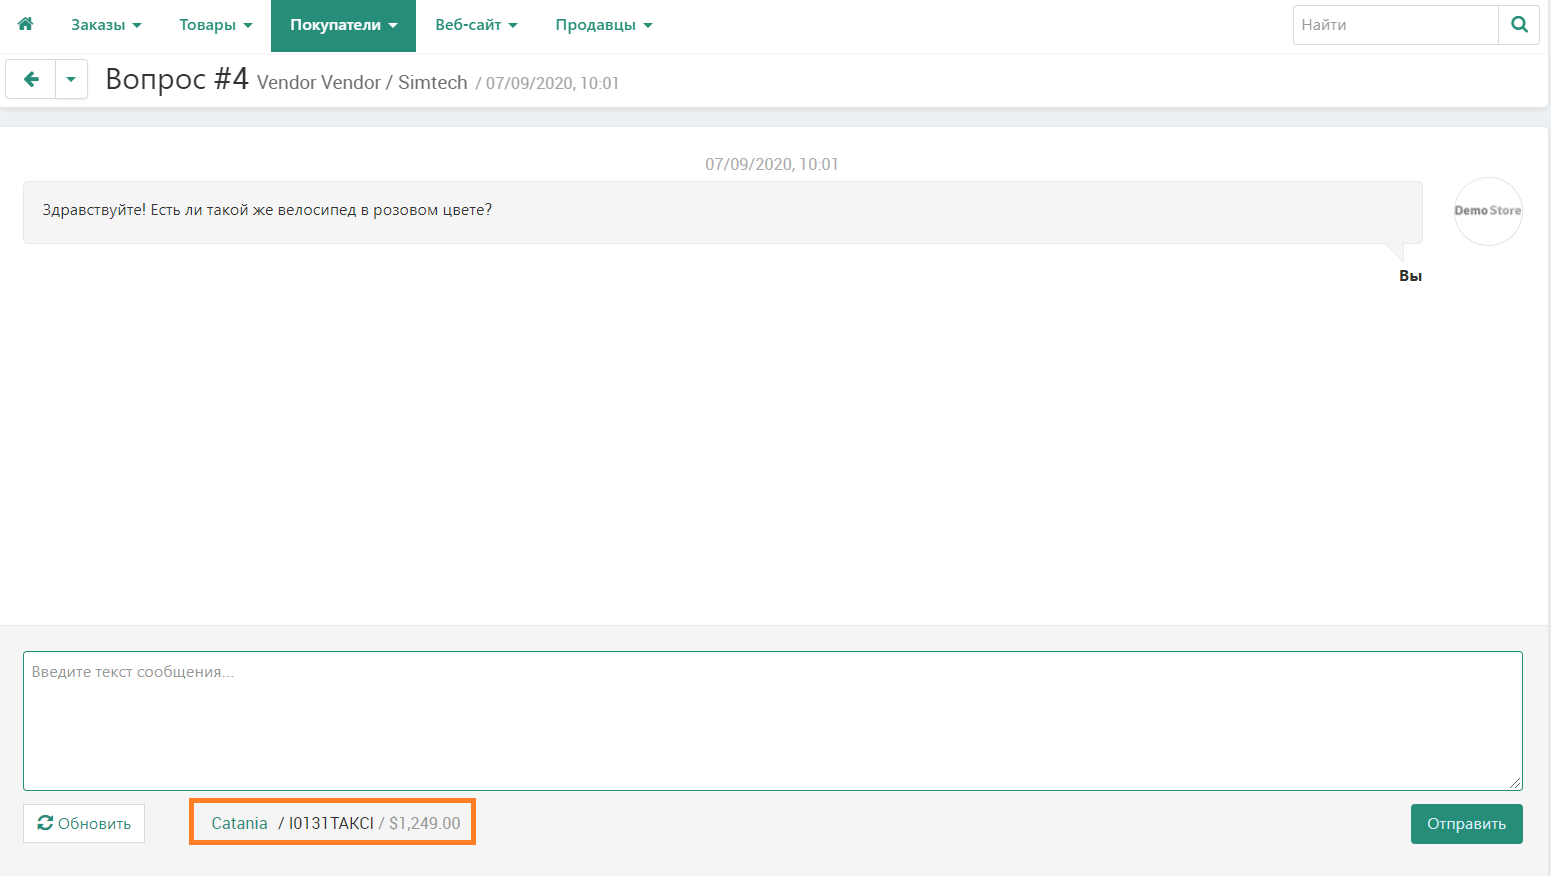
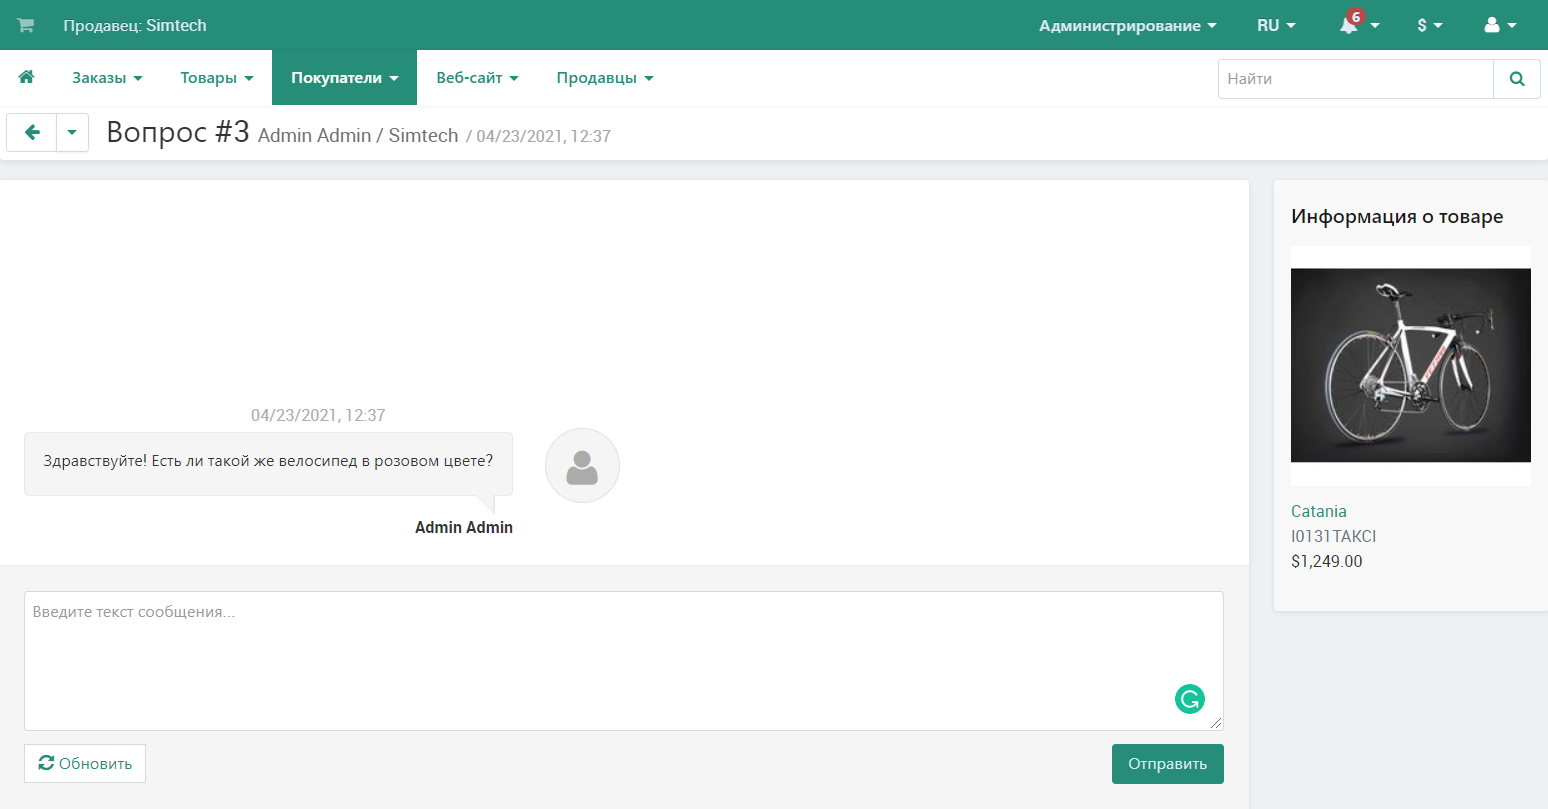
User Guide: Addons: Message Center articles updated

diff --git a/ru/user_guide/addons/customer_to_vendor_communication/index.rst b/ru/user_guide/addons/customer_to_vendor_communication/index.rst
@@ -4,7 +4,7 @@
 
 Модуль “Центр сообщений” поможет наладить общение между участниками продаж в CS-Cart. Это необходимое решение, если вы хотите дать покупателям возможность:
 
-* задать вопрос о товаре;
+* задать вопрос о товаре или по заказу;
 
 * общаться с вами или с вашими продавцами (если у вас маркетплейс). 
 
@@ -19,18 +19,25 @@
 Общение с покупателями
 ++++++++++++++++++++++
 
-Модуль “Центр сообщений” предоставляет продавцам и владельцам маркетплейсов возможность своевременно реагировать на запросы покупателей. на странице **Покупатели → Центр сообщений** продавцы или владелец маркетплейса могут:
+Модуль “Центр сообщений” предоставляет продавцам и владельцам маркетплейсов возможность своевременно реагировать на запросы покупателей. На странице **Покупатели → Центр сообщений** продавцы или владелец маркетплейса могут:
 
 * просматривать сообщения покупателей;
 
-* отвечать на сообщения, в том числе, на вопросы покупателей по конкретным товарам. Ссылка на товар, со страницы которого был отправлен вопрос, прикрепляется в нижней части диалога. Это позволяет продавцу сразу перейти на страницу с товаром, чтобы быстрее решить проблему клиента или ответить на его вопрос.
+* отвечать на сообщения, в том числе, на вопросы покупателей по конкретным товарам. Ссылка на товар, со страницы которого был отправлен вопрос, прикрепляется в правой части диалога. Это позволяет продавцу сразу перейти на страницу с товаром, чтобы быстрее решить проблему клиента или ответить на его вопрос.
 
   .. fancybox:: img/ask_a_question.png
-      :alt: Ссылка на товар, со страницы которого было отправлено сообщение, в переписке между покупателем и продавцом.
+      :alt: Переписка между покупателем и продавцом по товару.
+
+* отвечать на вопросы покупателей по заказам. Ссылка на заказ, со страницы которого был отправлен вопрос, находится в правой части страницы.
+
+  .. fancybox:: img/ask_a_question_2.png
+      :alt: Переписка между покупателем и продавцом по заказу.
 
 Модуль предоставляет возможность покупателям:
 
-* задать вопрос прямо с витрины со страницы любого товара через  кнопку **Задать вопрос**.
+* задать вопрос прямо с витрины со страницы любого товара через кнопку **Задать вопрос**.
+
+* начать общение со страницы заказа через **Мой профиль → Заказы**.
 
 * просматривать и отвечать на сообщения на странице своего профиля в разделе **Сообщения**.
 

diff --git a/ru/user_guide/addons/customer_to_vendor_communication/set_up_communication.rst b/ru/user_guide/addons/customer_to_vendor_communication/set_up_communication.rst
@@ -15,19 +15,21 @@
    * **Общие**:
 
      * **Общение покупателей с продавцами** — поставьте галочку, если хотите дать продавцам возможность напрямую общаться со своими покупателями.
-	 
-     * **Общение продавцов с администраторами**— поставьте галочку, если хотите дать продавцам возможность связываться с вами.
-	 
+
+     * **Общение продавцов с администраторами** — поставьте галочку, если хотите дать продавцам возможность связываться с вами.
+
    * **Для покупателей**:
 
      * **Отображать кнопку чата на странице товара** — поставьте галочку, если хотите, чтобы клиенты могли отправлять вам сообщения со страниц товаров.
-	 
+
      * **Отображать кнопку чата на странице микромагазина продавца** — если включить эту настройку, то кнопка “Задать вопрос” появится на странице микромагазина продавца.
-	 
+    
        .. important::
-	 
-	       Эта настройка влияет только на продавцов, у которых микромагазин включен в :doc:`тарифном плане </user_guide/users/vendors/manage_vendor_plans>`.
-		 
+
+           Эта настройка влияет только на продавцов, у которых микромагазин включен в :doc:`тарифном плане </user_guide/users/vendors/manage_vendor_plans>`.
+
+     * **Отображать кнопку чата на странице заказа** — поставьте галочку, если хотите, чтобы клиенты могли отправлять вам сообщения с детальных страниц заказов.
+
 Как ограничить общение продавцов с покупателями и администратором?
 ==================================================================
 
@@ -36,7 +38,7 @@
 .. important::
 
     Модуль :doc:`/user_guide/addons/vendor_privileges/index` доступен только для пользователей Multi-Vendor Plus и Multi-Vendor Ultimate.
-	
+
 Как сделать так, чтобы с покупателями общались только вы?
 +++++++++++++++++++++++++++++++++++++++++++++++++++++++++
 

diff --git a/en/user_guide/addons/customer_to_vendor_communication/index.rst b/en/user_guide/addons/customer_to_vendor_communication/index.rst
@@ -4,7 +4,7 @@ Message Center
 
 The **Message center** add-on helps to establish communication between CS-Cart users:
 
-* Customers can ask questions about specific products or simply contact you or your vendors.
+* Customers can ask questions about specific products, order details or simply contact you or your vendors.
 
 * Marketplace administration and vendors can contact each other.
 
@@ -24,15 +24,23 @@ The **Message center** add-on allows you and your vendors to stay in touch with 
 
 * read customers' messages;
 
-* answer those messages, including customers' questions on specific products. A link to the product page from which the question has been sent is attached at the bottom of the dialogue. This allows the vendor to go to the product page right from the dialogue, and quickly solve the client's problem or answer his question.
+* answer those messages, including customers' questions on specific products. A link to the product page from which the question has been sent is on the right part of the page. This allows the vendor to go to the product page right from the dialogue, and quickly solve the client's problem or answer his question.
 
 .. image:: img/ask_a_question.png
       :align: center
-      :alt: A link to the product page from which the message has been sent, in the dialogue between the customer and the vendor
+      :alt: Dialogue between the customer and the vendor on product.
+
+* answer customers' questions on orders. A link to the order from which the question has been sent is on the right part of the page.
+
+.. image:: img/ask_a_question_2.png
+      :align: center
+      :alt: Dialogue between the customer and the vendor on order.
 
 The add-on allows customers to:
 
 * ask a question right from the storefront via the **Ask a question** button.
+
+* start communication from the order page via the **My Account → Orders** page.
 
 * read and answer messages on the **Messages** tab in their accounts.
 

diff --git a/en/user_guide/addons/comments_and_reviews/comments_list.rst b/en/user_guide/addons/comments_and_reviews/comments_list.rst
@@ -10,15 +10,13 @@ The section is divided into the following subsections:
 
 * Page comments
 
-* Order communication
-
 * Testimonials
 
 .. note::
 
     For the **Comments and reviews** section to appear, install and activate the **Comments and reviews** add-on under **Add-ons → Manage add-ons**.
 
-Before customers can leave their comments, you need to enable comments and/or for respective objects such as categories, and pages on the **Add-ons** tab. For example, to enable ratings and comments for a category, go to **Products → Categories → <Desired Category>**, switch to the **Add-ons** tab and set **Reviews** to *Communication and rating*.
+Before customers can leave their comments, you need to enable comments and/or for respective objects such as categories and pages on the **Add-ons** tab. For example, to enable ratings and comments for a category, go to **Products → Categories → <Desired Category>**, switch to the **Add-ons** tab and set **Reviews** to *Communication and rating*.
 
 .. important::
 

diff --git a/en/user_guide/addons/customer_to_vendor_communication/set_up_communication.rst b/en/user_guide/addons/customer_to_vendor_communication/set_up_communication.rst
@@ -23,11 +23,13 @@ Basic Add-on Settings
    
      * **Contact button on product pages** — tick the box, if you want to allow your customer to send you messages from the product pages.
      
-     * **Contact button in vendor microstore** —  tick the box, if you want the **Ask a question** button to appear on the vendor's microstore page.
+     * **Contact button in vendor microstore** — tick the box, if you want the **Ask a question** button to appear on the vendor's microstore page.
 
        .. important::
 
            This setting is only affects those vendors who have their microstore enabled in the :doc:`vendor plan </user_guide/users/vendors/manage_vendor_plans>`.
+
+     * **Contact button on detailed order page** — tick the box, if you want to allow your customer to send you messages from the detailed order pages.
 
 How to Restrict the Communication between Vendors and Other CS-Cart Users?
 ==========================================================================

diff --git a/en/user_guide/addons/comments_and_reviews/comments_settings.rst b/en/user_guide/addons/comments_and_reviews/comments_settings.rst
@@ -18,16 +18,6 @@ Categories
 
 * **Default value**—determines if comments and/or reviews will be allowed by default for newly-created categories. Changing this setting won't affect existing categories.
 
-======
-Orders
-======
-
-* **Posts per page**—the maximum number of posts to appear on one page.
-
-* **Allow customer to initiate discussion**—if you tick this checkbox, customers will be able to start the discussion.
-
-* **Send notifications to vendor** (only in Multi-Vendor)—if you tick this checkbox, vendors will receive notifications about new posts.
-
 =============
 Gift registry
 =============

diff --git a/ru/user_guide/addons/comments_and_reviews/enable_comments_addon.rst b/ru/user_guide/addons/comments_and_reviews/enable_comments_addon.rst
@@ -26,7 +26,7 @@
 
    .. note::
 
-       Вы можете разрешить и запретить обсуждение и/или оценки отдельных категорий, блога, страниц и самого магазина.
+       Вы можете разрешить и запретить обсуждение и/или оценки категорий, блога, страниц и самого магазина.
 
 #. Нажмите на название объекта, для которого вы хотите разрешить комментарии.
 

diff --git a/en/user_guide/addons/comments_and_reviews/enable_comments_addon.rst b/en/user_guide/addons/comments_and_reviews/enable_comments_addon.rst
@@ -28,7 +28,7 @@ Choose Where to Allow Comments
 
    .. note::
 
-       You can allow comments and/or reviews for categories, orders, blog, pages, and the store itself (testimonials).
+       You can allow comments and/or reviews for categories, blog, pages, and the store itself (testimonials).
 
 #. Click on the name of the category, for which you want to allow comments.
 

diff --git a/en/user_guide/addons/comments_and_reviews/index.rst b/en/user_guide/addons/comments_and_reviews/index.rst
@@ -9,7 +9,6 @@ Comments and Reviews
 This add-on enables you to manage customer feedback and discussions appearing on some of the storefront pages:
 
 * Category pages
-* Order details
 * Blog
 * Content pages
 * Testimonials
